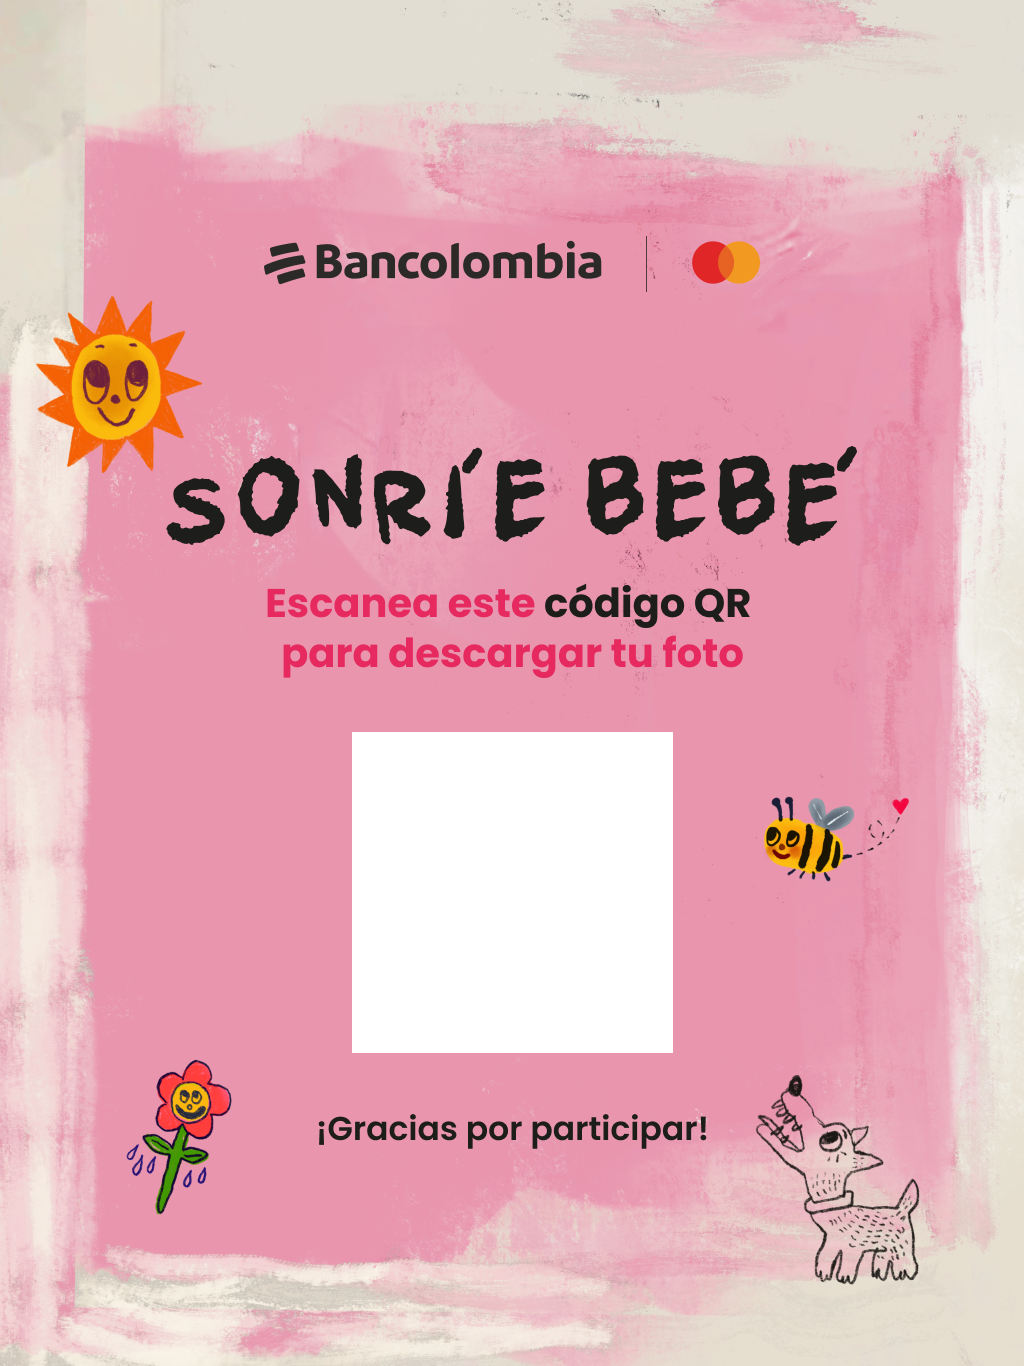
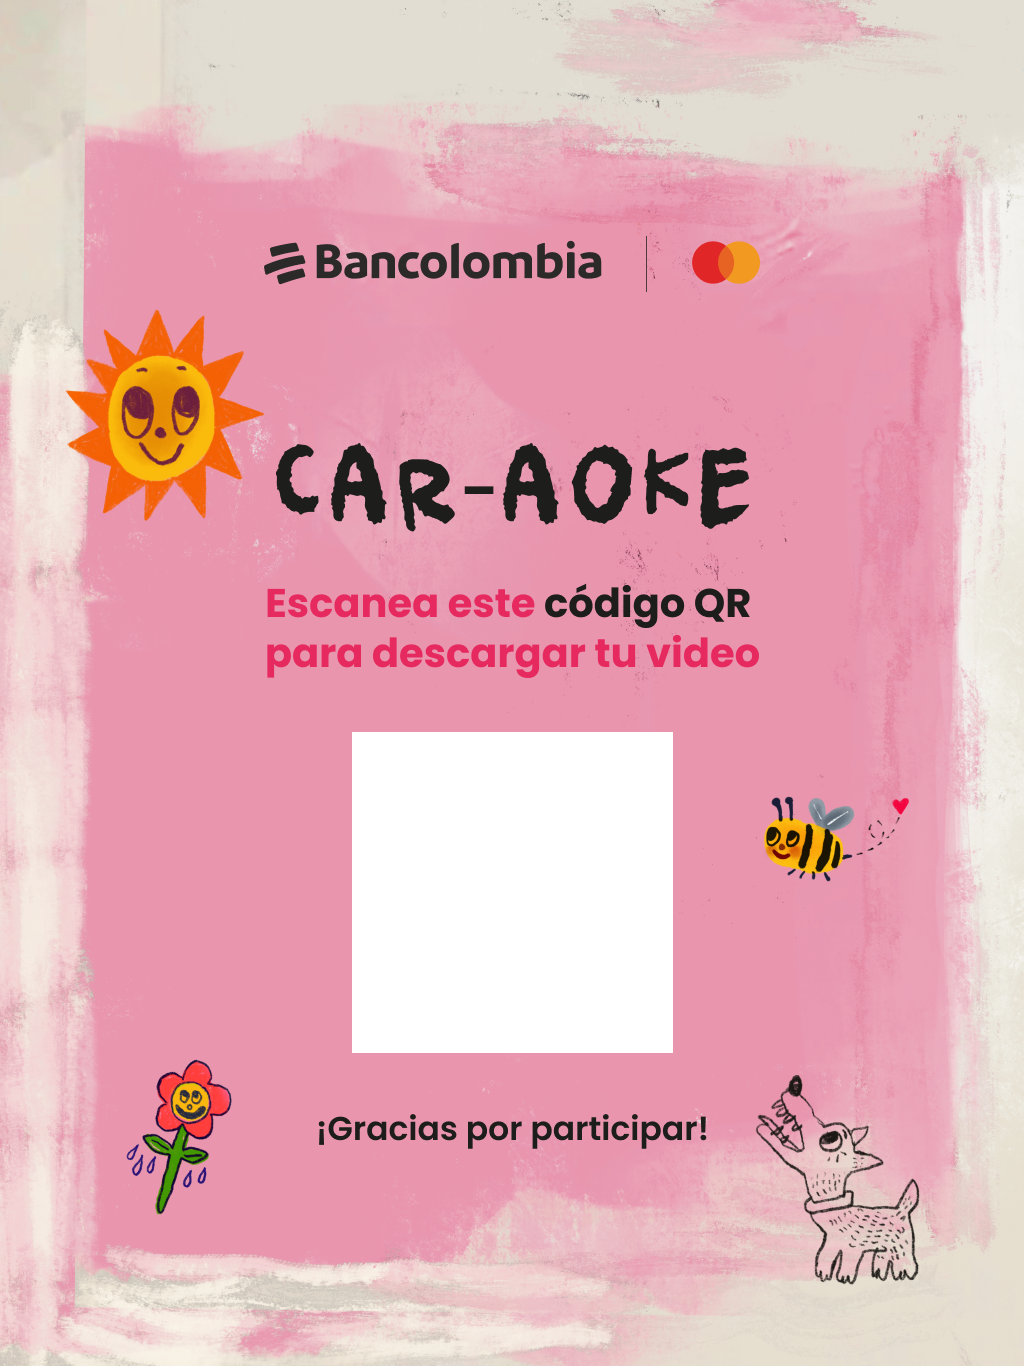
add upload video to WS from new takeVideo comp

Changed region(s): [[0.0312, 0.2152, 0.8438, 0.3997], [0.25, 0.4612, 0.75, 0.4919]]

diff --git a/src/hooks/useShowCameraGrabar.ts b/src/hooks/useShowCameraGrabar.ts
@@ -1,4 +1,7 @@
 import { useEffect, useState } from "react";
+import { useUiKaraoke } from '../hooks/useUiKaraoke';
+import axios from 'axios';
+import { v4 as uuidv4 } from 'uuid';
 
 export const useShowCameraGrabar = (
   videoRefProp: React.MutableRefObject<null> | null = null
@@ -9,6 +12,7 @@ export const useShowCameraGrabar = (
   const [mediaRecorder, setMediaRecorder] = useState<MediaRecorder | null>(null);
   const [recordedChunks, setRecordedChunks] = useState<Blob[]>([]);
   const [isRecording, setIsRecording] = useState(false);
+  const { setVideoQRName } = useUiKaraoke();
 
   const onSetVideoRef = (videoRef: React.MutableRefObject<any>) => {
     setVideoRef(videoRef);
@@ -84,8 +88,8 @@ export const useShowCameraGrabar = (
   }, [videoRefProp]);
 
 
-  const handleDownload = (callback?:()=>void) => {
-    if (recordedChunks.length) {
+  const handleDownload = async (callback?:()=>void) => {
+    /*if (recordedChunks.length) {
       const blob = new Blob(recordedChunks, {
         type: "video/webm",
       });
@@ -100,7 +104,37 @@ export const useShowCameraGrabar = (
       window.URL.revokeObjectURL(url);
       setRecordedChunks([]);
       if(callback)callback()
+    }*/
+    if (recordedChunks.length) {
+      const blob = new Blob(recordedChunks, {
+        type: 'video/webm',
+      });
+      const fileName = generateUniqueId();
+      const data = new FormData();
+      data.append('videoFile', blob, fileName);
+      const _heads = {
+        'Content-Type': `multipart/form-data;`,
+      };
+      try {
+        const res = await axios.post(
+          'https://mocionws.info/video.php',
+          data,
+          { headers: _heads }
+        );
+        console.log('UPLOAD VIDEO', res);
+        if (res.data !== 'error') {
+        	setVideoQRName(res.data);
+        	if(callback)callback();
+        }
+      } catch (error) {
+        console.log('ERROR UPLOAD VIDEO', error);
+      }
     }
+  };
+
+  const generateUniqueId = () => {
+    const newUniqueId = uuidv4().slice(0, 6);
+    return newUniqueId;
   };
 
 

diff --git a/src/webcam/WebcamVideo.tsx b/src/webcam/WebcamVideo.tsx
@@ -109,7 +109,7 @@ export default function WebcamVideo({ countDown }: Props) {
   useEffect(() => {
     if (countDown === 0) {
       handleStopCaptureClick();
-      setTimeout(uploadFileRequest, 5000);
+      uploadFileRequest();
     }
   }, [countDown, handleStopCaptureClick, handleDownload]);
 
